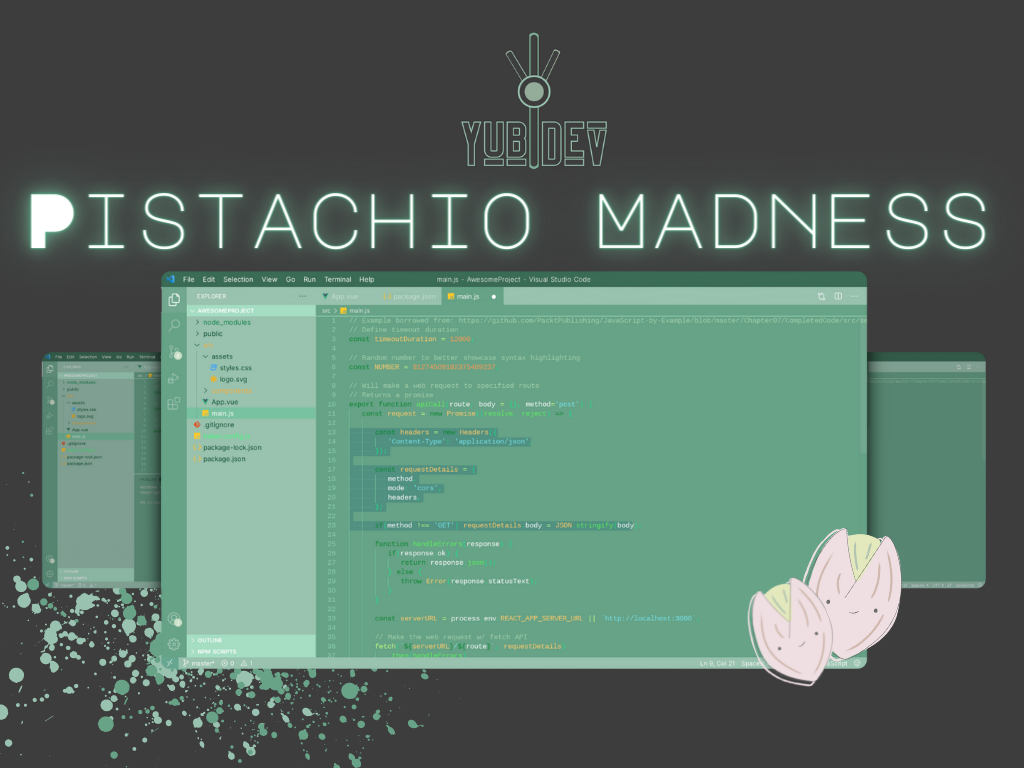
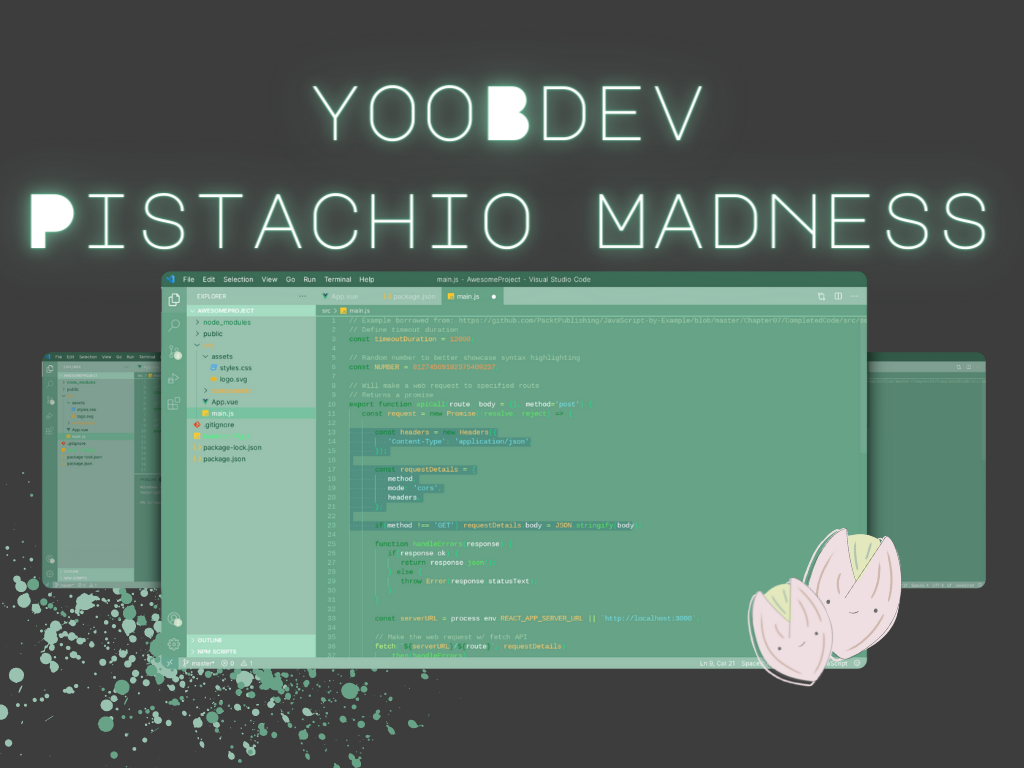
new image

Changed region(s): [[0.3125, 0.0625, 0.6875, 0.2188]]

diff --git a/README.md b/README.md
@@ -5,6 +5,8 @@
 A Nutty Green VSCode Theme
 
 
+ ![PistachioMadness.png](https://raw.githubusercontent.com/kimkom369/VSCode-Green-Theme/main/images/PistachioMadness.png)
+
 
 
 ##  Install Instructions
@@ -15,7 +17,7 @@ A Nutty Green VSCode Theme
 
  ## Author
 
-**YubiDev**
+**yooBdev**
 
 
 **Enjoy!**
